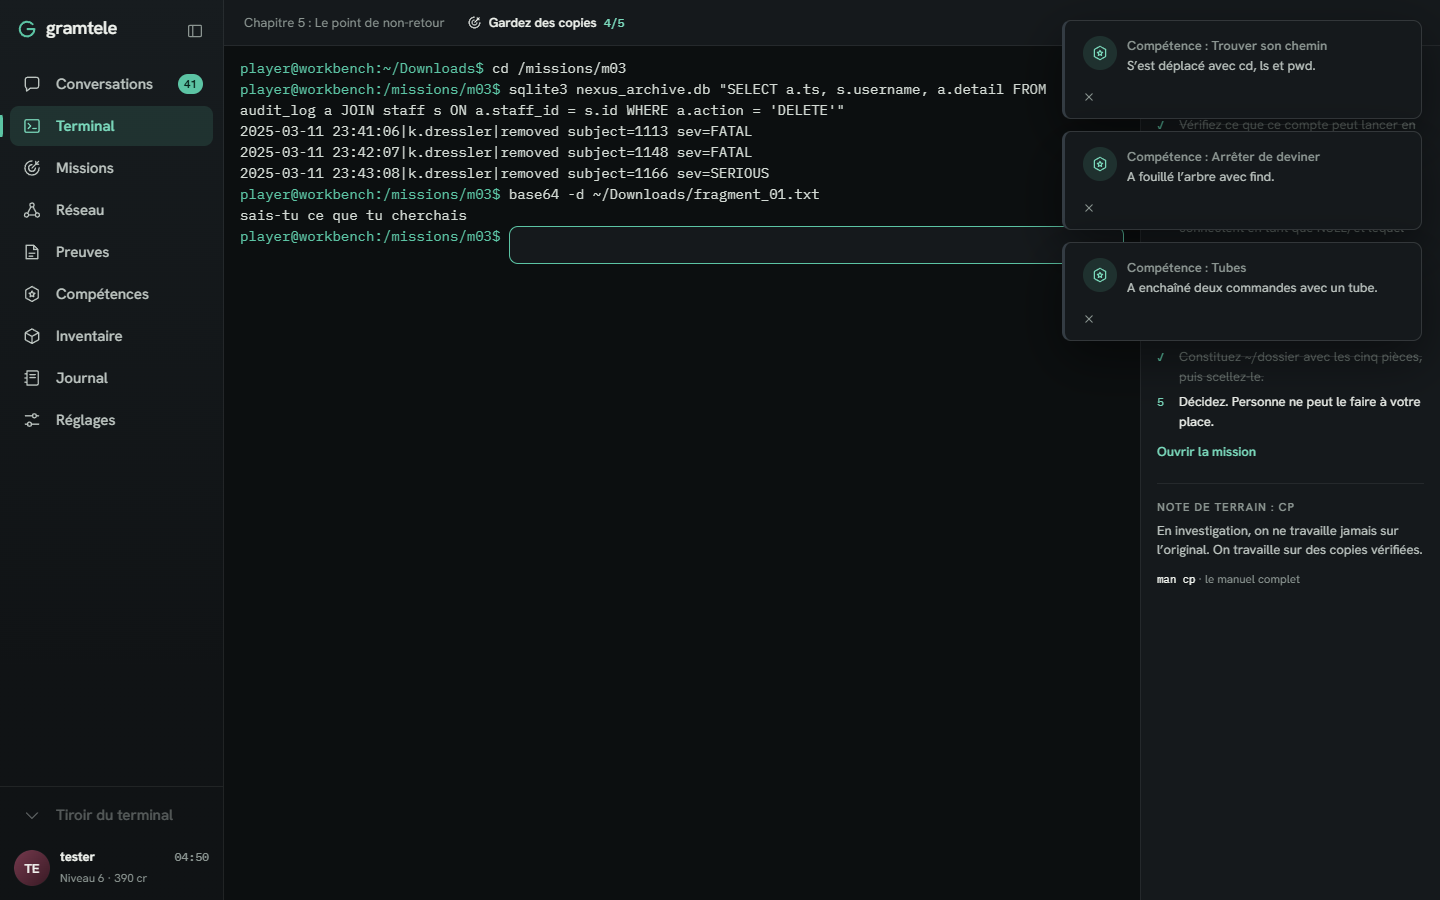
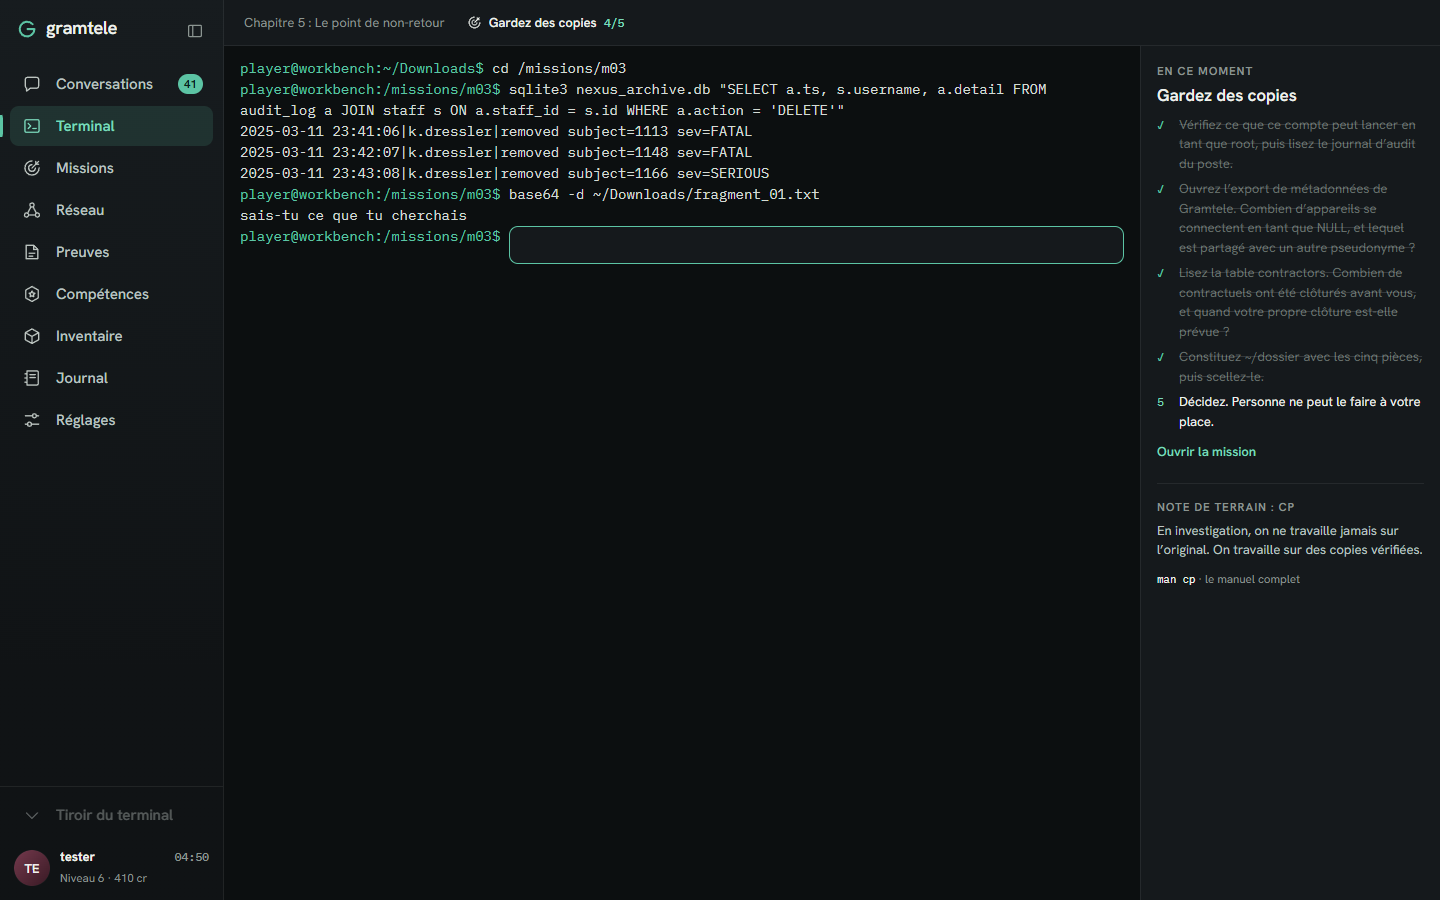
Corrige la mise en page des notifications et refait les captures

diff --git a/src/ui/styles/shell.css b/src/ui/styles/shell.css
@@ -121,7 +121,7 @@ button.view-bar-mission:hover { background: var(--bg-3); }
 .toast-main { flex: 1; min-width: 0; display: flex; gap: 10px; padding: 8px; text-align: left; border-radius: var(--r-sm); }
 .toast-main:hover { background: rgb(255 255 255 / 4%); }
 .toast-icon { display: grid; place-items: center; width: 34px; height: 34px; flex: none; border-radius: 50%; background: var(--accent-soft); color: var(--accent-strong); }
-.toast.evidence .toast-icon, .toast.achievement .toast-icon, .toast.level .toast-icon { background: var(--amber-soft); color: var(--amber); }
+.toast-evidence .toast-icon, .toast-achievement .toast-icon, .toast-level .toast-icon { background: var(--amber-soft); color: var(--amber); }
 .toast-text { min-width: 0; display: flex; flex-direction: column; font-size: var(--fs-sm); }
 .toast-text strong { font-weight: 650; }
 .toast-text span { color: var(--text-2); display: -webkit-box; -webkit-line-clamp: 2; -webkit-box-orient: vertical; overflow: hidden; overflow-wrap: anywhere; }

diff --git a/src/ui/components/Toasts.tsx b/src/ui/components/Toasts.tsx
@@ -34,7 +34,7 @@ export function Toasts() {
   return (
     <div className="toasts" role="status" aria-live="polite">
       {visible.map((t) => (
-        <div key={t.id} className={`toast ${t.kind}`}>
+        <div key={t.id} className={`toast toast-${t.kind}`}>
           <button type="button" className="toast-main" onClick={() => {
             g.dismissToast(t.id);
             if (t.thread) s.openThread(t.thread);
